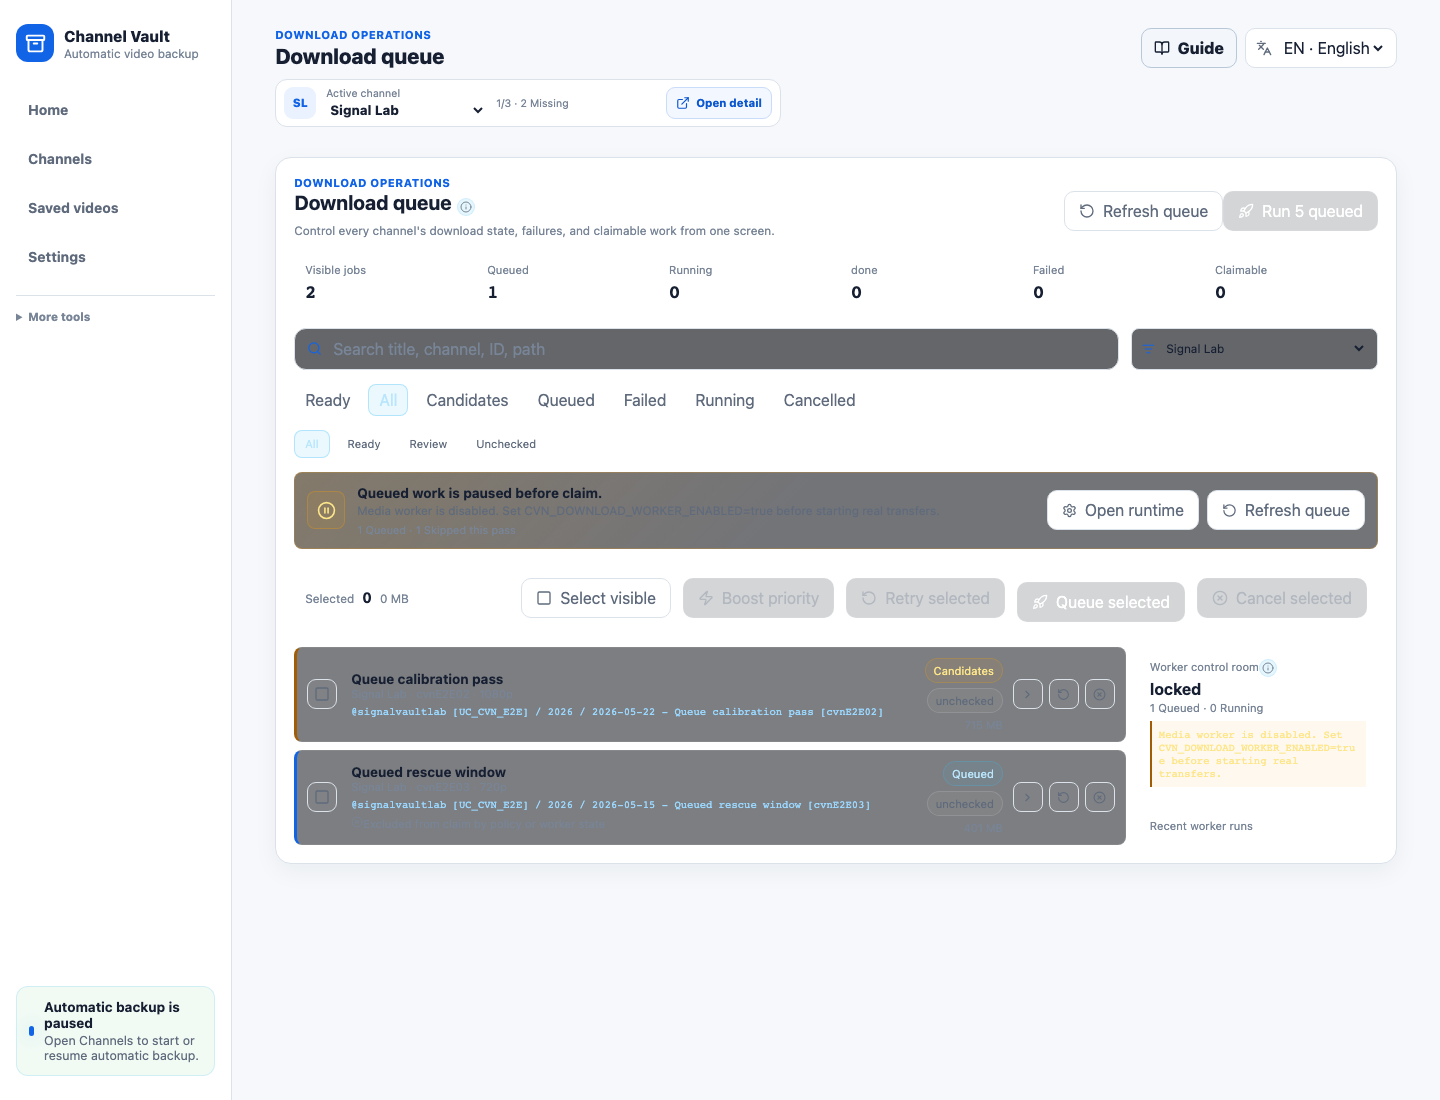
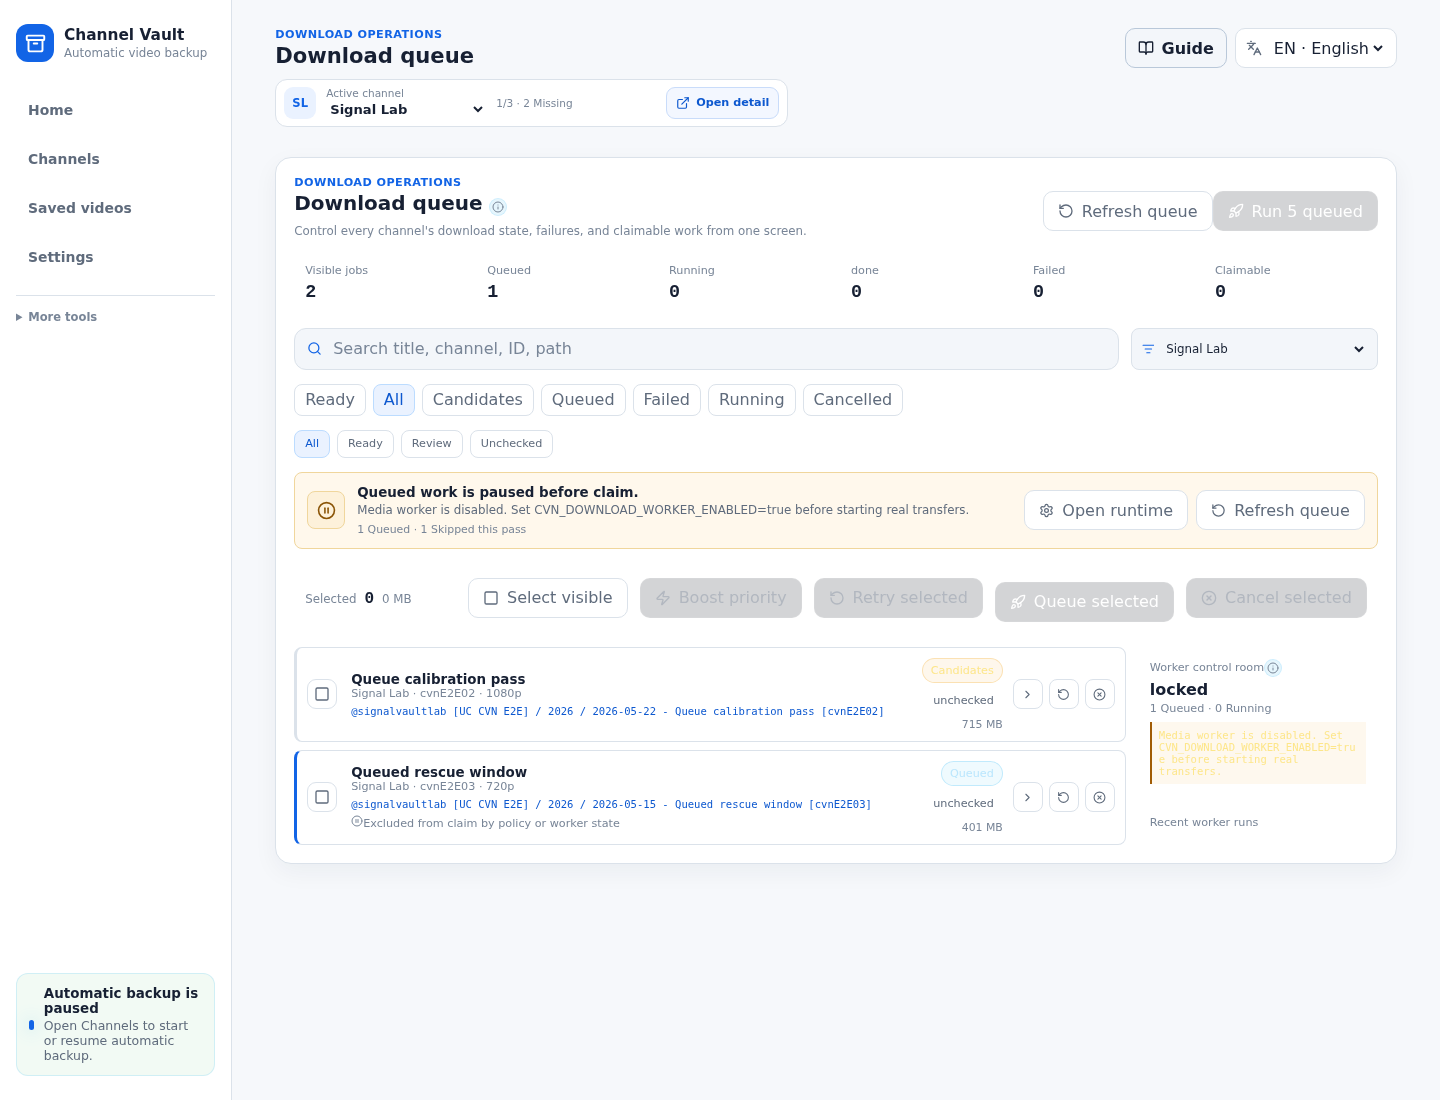
fix(ui): light-theme queue console controls and refresh operational screenshots (#21)
Re-theme the remaining dark leftovers on the Download queue screen
(search box, channel filter, status pills, job rows, progress bars,
row actions, expanded detail, command/error, worker lock, live
telemetry) so the whole screen matches the light theme.

Regenerate the operational screenshots used in the README and user
manual so they reflect the finished light theme and the '10+ years'
capacity-window cap:
- docs/assets/screenshots/queue-console.png
- docs/assets/user-manual/{en,ko}/05-queue-console.png
- docs/assets/user-manual/{en,ko}/09-insights-storage.png

diff --git a/frontend/src/simple-ui.css b/frontend/src/simple-ui.css
@@ -2008,6 +2008,84 @@ input {
   background: #fdf5e6;
 }
 
+/* Download queue: job rows, progress, actions, and expanded detail */
+.queue-console-row {
+  border-color: var(--border);
+  background: #ffffff;
+}
+
+.queue-console-row.selected {
+  border-color: #9fd6b4;
+  background: #eef9f1;
+}
+
+.queue-console-main code {
+  color: #0d58cf;
+}
+
+.queue-console-lock {
+  color: #8a5406;
+}
+
+.queue-console-progress {
+  background: #eef4f8;
+}
+
+.queue-console-row-actions button {
+  border-color: var(--border);
+  color: var(--muted);
+  background: #ffffff;
+}
+
+.queue-console-row-actions button.active {
+  border-color: #bcdcff;
+  color: #0d58cf;
+  background: #eaf2ff;
+}
+
+.queue-console-detail {
+  border-top-color: var(--border);
+}
+
+.queue-console-detail-card {
+  border-color: var(--border);
+  background: #f8fafc;
+}
+
+.queue-console-command {
+  color: #0d58cf;
+  background: #eaf2ff;
+}
+
+.queue-console-error {
+  color: #a3231d;
+  background: #fdecec;
+}
+
+/* Download queue: search, status filters, and live telemetry */
+.queue-console-select {
+  background: #f3f6fa;
+}
+
+.queue-search {
+  background: #f3f6fa;
+}
+
+.queue-console-filters button {
+  border-color: var(--border);
+  background: #ffffff;
+}
+
+.queue-console-filters button.active {
+  border-color: #bcdcff;
+  color: #0d58cf;
+  background: #eaf2ff;
+}
+
+.queue-console-live > div:last-child {
+  background: #eef4f8;
+}
+
 /* Insights: storage trend card */
 .storage-pressure-trend {
   border-color: #cfe9ef;
